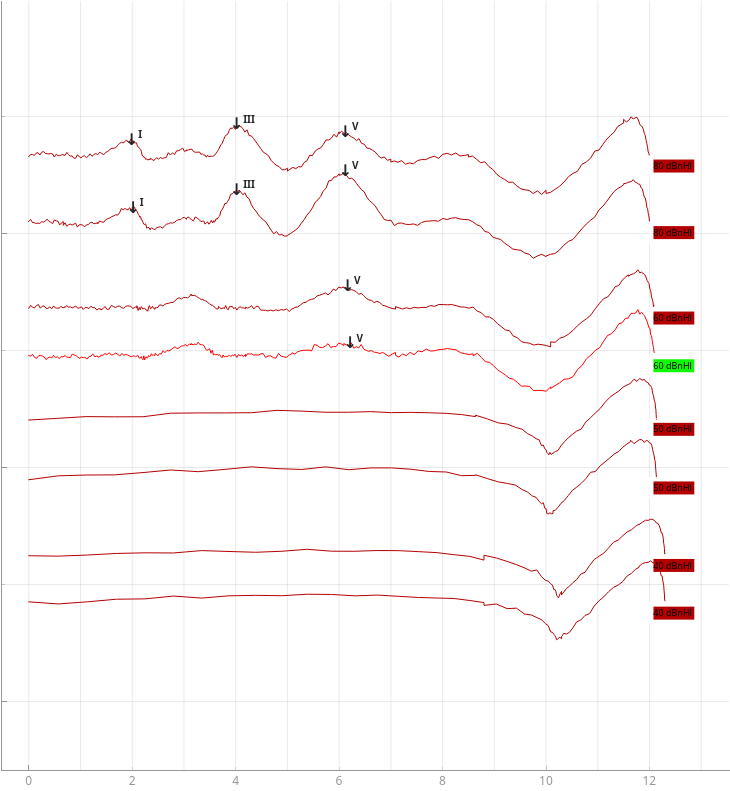
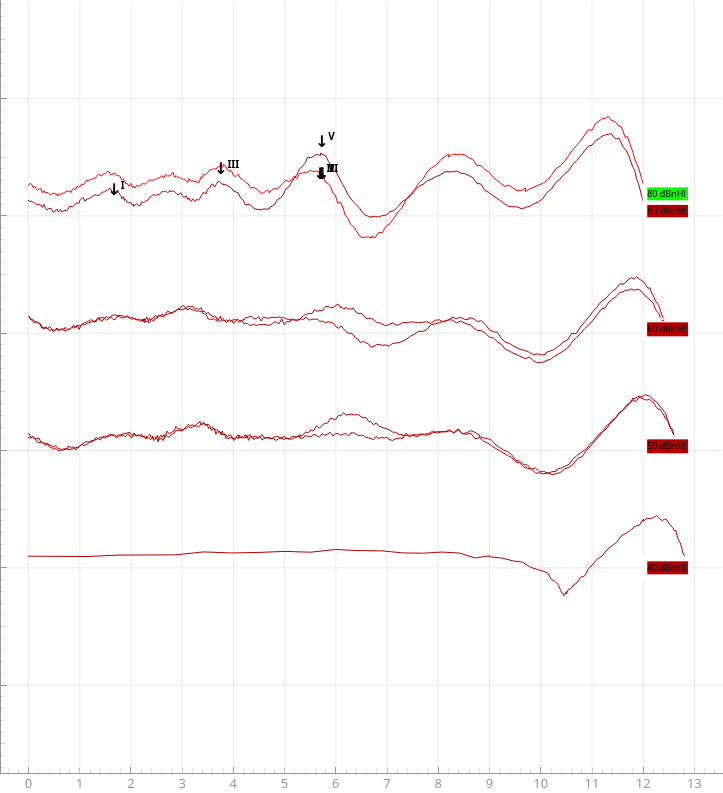
change color

diff --git a/src/main/python/main.py b/src/main/python/main.py
@@ -33,7 +33,7 @@ from UI.AbrAdvanceSettings_ui import Ui_AdvanceSettings
 from UI.AbrMain_ui import Ui_MainWindow
 from watchdog.events import FileSystemEventHandler
 from watchdog.observers import Observer
-from lib.convinaciones import elegir_combinacion_especifica, casos, namecasos
+from lib.conbinaciones import elegir_combinacion_especifica, casos, namecasos
 
 tr = QCoreApplication.translate
 
@@ -393,14 +393,14 @@ class MainWindow(QMainWindow, Ui_MainWindow):
         if exam:
             self.cases = dialog.case
             name_user = dialog.name.text()
-            self.report.set_le_eva(name_user)
-        
+            self.report.set_le_eva(name_user)        
+            self.report.case = self.cases[0]
+            self.case = self.cases[0]
+            self.lbl_info.setText(f"Estamos evaluando el caso {self.cases[self.current_case]+1}")
+
         else:
             self.case = dialog.combo_box.currentIndex()
         
-        self.report.case = self.cases[0]
-        self.case = self.cases[0]
-        self.lbl_info.setText(f"Estamos evaluando el caso {self.cases[self.current_case]+1}")
         self.timer.start(1000)
 
 

diff --git a/src/main/python/lib/AbrLatIntGraph.py b/src/main/python/lib/AbrLatIntGraph.py
@@ -42,8 +42,8 @@ class GraphLatInt(pg.GraphicsLayoutWidget):
         y_top_vals = [9.4,8.9,8.2,7.9,7.2,6.7,6.4,6.1,5.8]
         curve_top = self.pw.plot(x_vals, y_top_vals)
         curve_bottom = self.pw.plot(x_vals, y_bottom_vals)
-        fill_between = pg.FillBetweenItem()
-        fill_between.setCurves(curve_top, curve_bottom)
+        fill_between = pg.FillBetweenItem(curve_top, curve_bottom)
+        #fill_between.setCurves(curve_top, curve_bottom)
         fill_between.setBrush(pg.mkColor(100, 100, 250, 80))
         self.pw.addItem(fill_between)
         #self.pw.fillBetween(x_vals, y_bottom_vals, y_top_vals, brush=fill_color)

diff --git a/src/main/python/lib/AbrGraph.py b/src/main/python/lib/AbrGraph.py
@@ -163,7 +163,6 @@ class AbrGraph(GraphicsLayoutWidgetMod):
             self.act_curve = None
 
         
-
     def get_active(self):
         return self.act_curve
 
@@ -249,7 +248,7 @@ class AbrGraph(GraphicsLayoutWidgetMod):
         if lbl not in self.marks[name_curve]:
             self.marks[name_curve][lbl] = [x,y]
             y = y + self.data[name_curve]['gap']
-            curve_mark = f"<h3>&darr;<sup>{lbl}</sup></h3>"
+            curve_mark = f"<span style='color: #000; font-size: 7pt;'><h3>&darr;<sup>{lbl}</sup></h3></span>"
             text = TextItemMod(name = name, tipo='mark', curve_parent=name_curve, html = curve_mark,  anchor=(0.34,0.6), color=(0,0,0,255))
             font = QFont()
             font.setPixelSize(13)